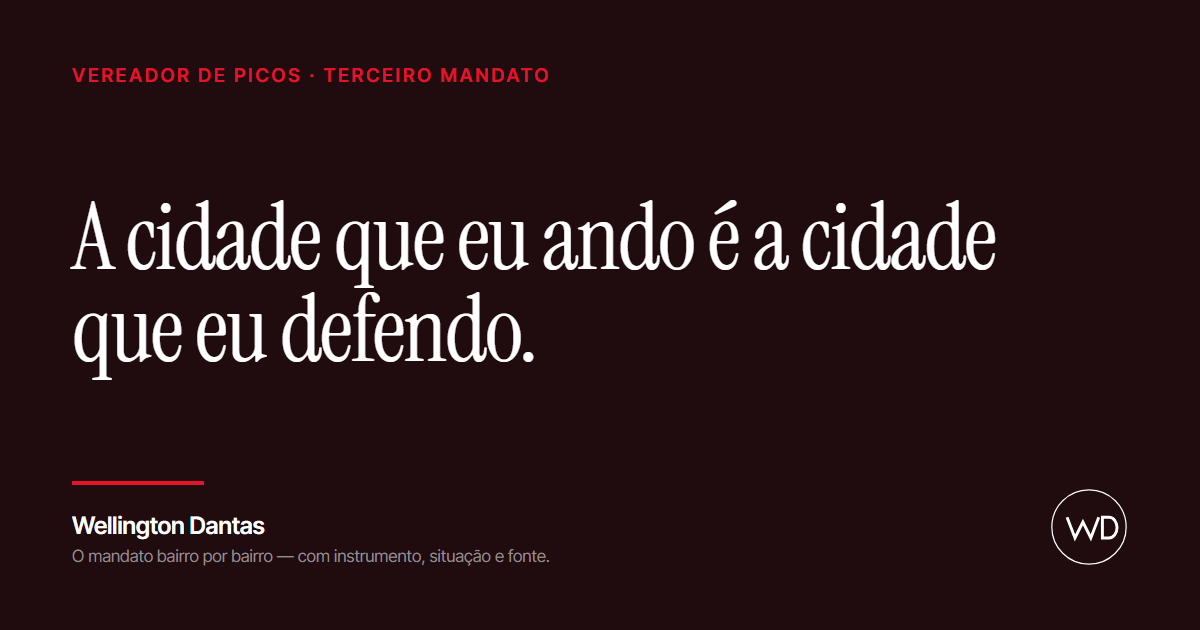
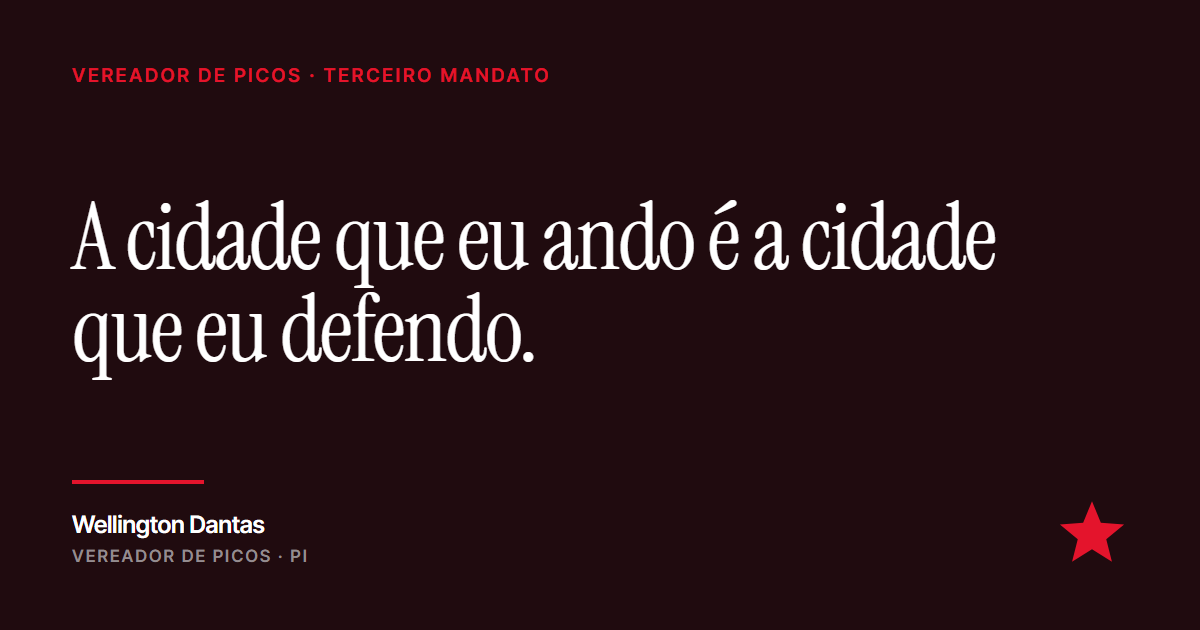
emendas por estágio de aplicação, e a assinatura nova em todo o site
EMENDAS. Saiu a lista de quem mandou; ficou o valor pelo estágio: R$ 59,5 mi já
aplicado, R$ 4,2 mi em execução, R$ 44,0 mi ainda a aplicar, com o rótulo do
portal ao lado de cada um — a classificação é da Prefeitura, a divisão em três
estágios é leitura do site. É site de mandato, não vitrine de parlamentar.

O custo dessa escolha está compensado no texto: sem os nomes dos autores, o
aviso passou a ser a única coisa que separa contexto de apropriação, então ele
ficou mais explícito — "nenhum destes recursos é do vereador, e nenhum passou
por ele... este site não atribui a ninguém". A régua exige as duas metades da
frase e passa a reprovar qualquer nome de parlamentar do CSV que apareça na
página, inclusive para dar crédito.

IDENTIDADE. Aplicada a assinatura nova:
- estrela de cinco pontas no lugar do monograma WD, no topo e no rodapé;
- duas linhas, não três: nome e cargo. Nome civil, partido e casa legislativa
  descem para a linha legal do rodapé, onde são obrigação e não identidade;
- selo quadrado de raio 2px vira favicon e avatar do assistente;
- cartão de compartilhamento regerado com a estrela e o cargo em caixa alta.

Changed region(s): [[0.0617, 0.8143, 0.4625, 0.9048], [0.8633, 0.7841, 0.9558, 0.9048], [0.0617, 0.754, 0.1542, 0.7841]]

diff --git a/index.html b/index.html
@@ -24,14 +24,14 @@
 <link rel="icon" href="img/selo.svg" type="image/svg+xml">
 <link rel="stylesheet" href="css/fontes.css?v=0481c866">
 <link rel="stylesheet" href="css/base.css?v=7b356f69">
-<link rel="stylesheet" href="css/site.css?v=a0ed0b08">
+<link rel="stylesheet" href="css/site.css?v=9b6ec860">
 </head>
 <body>
 <a class="pular" href="#entregas">Pular para as entregas</a>
 
 <header class="topo">
   <div class="wrap topo__in">
-    <a class="marca" href="#"><span class="marca__n">Wellington Dantas</span><span class="marca__t">Vereador de Picos</span></a>
+    <a class="marca" href="#"><svg class="estrela" viewBox="0 0 24 24" aria-hidden="true"><path d="M12 2.4 14.95 9.6 22.7 10.15 16.75 15.05 18.65 22.6 12 18.4 5.35 22.6 7.25 15.05 1.3 10.15 9.05 9.6Z"/></svg><span class="marca__tx"><span class="marca__n">Wellington Dantas</span><span class="marca__t">Vereador de Picos · PI</span></span></a>
     <nav class="nav">
       <a href="#origem">Trajetória</a>
       <a href="#bandeira">Causas</a>
@@ -465,37 +465,21 @@
 <section class="rec" id="recursos">
   <div class="wrap">
     <p class="olho">Recursos</p>
-    <h2>De onde vem o dinheiro que chega a Picos.</h2>
-    <p class="lide">Emendas parlamentares destinadas ao município, com autor e situação, como estão publicadas no portal da Prefeitura.</p>
+    <h2>O dinheiro público que chega a Picos.</h2>
+    <p class="lide">Emendas parlamentares destinadas ao município entre 2020 e 2026, pelo estágio de aplicação, como constam no portal da Prefeitura.</p>
 
-    <p class="rec__aviso"><strong>Nada disto é emenda do vereador.</strong> Vereador não apresenta emenda parlamentar — emenda individual, de bancada, de comissão e de relator são instrumentos de deputado e de senador. Esta seção está aqui porque é dinheiro público que chega à cidade, e mostrar de onde ele vem é diferente de dizer que alguém o trouxe.</p>
+    <p class="rec__aviso"><strong>Nenhum destes recursos é do vereador, e nenhum passou por ele.</strong> Vereador não apresenta emenda parlamentar — emenda individual, de bancada, de comissão e de relator são instrumentos de deputado e de senador. Este quadro está aqui porque é dinheiro público que chega a Picos e a cidade tem o direito de saber em que pé ele está. Não é resultado de mandato nenhum, e este site não atribui a ninguém.</p>
 
 <!--gerado:emendas-->
       <ul class="rec__n">
-        <li><b>R$&nbsp;107,7&nbsp;mi</b><span>destinados a Picos entre 2020 e 2026</span></li>
-        <li><b>60</b><span>emendas no portal da Prefeitura</span></li>
-        <li><b>R$&nbsp;59,5&nbsp;mi</b><span>com situação concluída — o resto ainda não é dinheiro na conta</span></li>
+        <li><b>R$&nbsp;59,5&nbsp;mi</b><span>Já foi aplicado<em>situação “Concluída” no portal</em></span></li>
+        <li><b>R$&nbsp;4,2&nbsp;mi</b><span>Está em execução<em>executada parcialmente ou já transferida</em></span></li>
+        <li><b>R$&nbsp;44,0&nbsp;mi</b><span>Ainda vai ser aplicado<em>empenhada — reservada, ainda não executada</em></span></li>
       </ul>
 
-      <h3 class="rec__t">Em que pé está</h3>
-      <ul class="rec__l">
-        <li><span class="rec__r">Concluida</span><span class="rec__q">23</span><span class="rec__v">R$ 59.475.977,20</span></li>
-        <li><span class="rec__r">Empenhada</span><span class="rec__q">26</span><span class="rec__v">R$ 44.008.209,46</span></li>
-        <li><span class="rec__r">Executada Parcialmente</span><span class="rec__q">8</span><span class="rec__v">R$ 2.488.603,61</span></li>
-        <li><span class="rec__r">Liberada / Transferida</span><span class="rec__q">3</span><span class="rec__v">R$ 1.701.611,28</span></li>
-      </ul>
+      <p class="rec__soma">Somados, <b>R$ 107.674.401,55</b> em 60 registros entre 2020 e 2026.</p>
 
-      <h3 class="rec__t">De quem partiu — as seis maiores origens</h3>
-      <ul class="rec__l">
-        <li><span class="rec__r">COM. DA SAUDE</span><span class="rec__q">5</span><span class="rec__v">R$ 35.007.247,00</span></li>
-        <li><span class="rec__r">BANCADA DO PIAUI</span><span class="rec__q">6</span><span class="rec__v">R$ 19.302.066,00</span></li>
-        <li><span class="rec__r">COM. ASSUNTOS SOCIAIS</span><span class="rec__q">3</span><span class="rec__v">R$ 10.521.269,00</span></li>
-        <li><span class="rec__r">FLORENTINO NETO</span><span class="rec__q">3</span><span class="rec__v">R$ 9.400.000,00</span></li>
-        <li><span class="rec__r">JADYEL ALENCAR</span><span class="rec__q">3</span><span class="rec__v">R$ 5.490.000,00</span></li>
-        <li><span class="rec__r">ELMANO FERRER</span><span class="rec__q">2</span><span class="rec__v">R$ 4.900.000,00</span></li>
-      </ul>
-
-      <p class="rec__f"><b>O que este número não é.</b> O portal não traz nenhum registro de 2022, 2 emendas aparecem com valor zero, e o beneficiário nem sempre é a Prefeitura — há associação e entidade com endereço na cidade. 60 registros para 7 anos é o que a Prefeitura publicou, não o universo do que chegou.<br><span>Fonte: Portal de Transparência da Prefeitura Municipal de Picos — Emendas Parlamentares. Coleta de 1 set 2026, conferida linha a linha.</span></p>
+      <p class="rec__f"><b>O que este número não é.</b> O portal não traz nenhum registro de 2022, 2 registros aparecem com valor zero, e o beneficiário nem sempre é a Prefeitura — há associação e entidade com endereço na cidade. 60 registros para 7 anos é o que a Prefeitura publicou, não o universo do que chegou à cidade.<br><span>Fonte: Portal de Transparência da Prefeitura Municipal de Picos — Emendas Parlamentares. Coleta de 1 set 2026, conferida linha a linha. A situação de cada recurso é a que consta no portal; a divisão em três estágios é leitura do site.</span></p>
 <!--/gerado:emendas-->
   </div>
 </section>
@@ -531,8 +515,12 @@
 <footer class="rod">
   <div class="wrap rod__in">
     <div class="rod__id">
-      <svg class="selo" viewBox="0 0 64 64" aria-hidden="true"><circle cx="32" cy="32" r="30.5" fill="none" stroke="currentColor" stroke-width="1"/><path d="M14 24 L20.5 41 L27 28 L33.5 41 L40 24" fill="none" stroke="currentColor" stroke-width="2.4" stroke-linejoin="miter"/><path d="M43 24 h5.5 c3.6 0 6.5 3.8 6.5 8.5 s-2.9 8.5 -6.5 8.5 H43 z" fill="none" stroke="currentColor" stroke-width="2.4"/></svg>
-      <div><p class="rod__n">Wellington Dantas</p><p class="rod__t">Francisco Wellington Gonçalves Dantas · Vereador de Picos (PI) · Partido dos Trabalhadores</p></div>
+      <svg class="estrela estrela--rod" viewBox="0 0 24 24" aria-hidden="true"><path d="M12 2.4 14.95 9.6 22.7 10.15 16.75 15.05 18.65 22.6 12 18.4 5.35 22.6 7.25 15.05 1.3 10.15 9.05 9.6Z"/></svg>
+      <div>
+        <p class="rod__n">Wellington Dantas</p>
+        <p class="rod__c">Vereador de Picos · PI</p>
+        <p class="rod__t">Francisco Wellington Gonçalves Dantas · Partido dos Trabalhadores · Câmara Municipal de Picos, Piauí</p>
+      </div>
     </div>
     <nav class="rod__nav"><a href="https://www.instagram.com/wellingtondantaspicos/" rel="noopener">Instagram</a></nav>
   </div>

diff --git a/css/site.css b/css/site.css
@@ -16,6 +16,46 @@
 [hidden] { display: none !important; }
 
 
+/* assinatura institucional
+ *
+ * A estrela entra no lugar do monograma "WD": monograma de iniciais não diz
+ * nada e some em tamanho pequeno; a estrela de cinco pontas é reconhecida
+ * antes de qualquer palavra ser lida. Nome e cargo em duas linhas — nome civil
+ * e partido descem para a linha legal do rodapé, onde são obrigação e não
+ * identidade.
+ *
+ * O alinhamento da estrela é óptico: ela acompanha a altura das duas linhas de
+ * texto, não a caixa do desenho. Estrela alinhada pela caixa parece sempre
+ * alta demais.
+ */
+.marca {
+  flex-direction: row;
+  align-items: center;
+  gap: 11px;
+  border-left: 0;
+  padding-left: 0;
+}
+.marca__tx { display: flex; flex-direction: column; line-height: 1.15; }
+.marca__t { letter-spacing: .1em; text-transform: uppercase; font-weight: 600; font-size: 10.5px; }
+
+.estrela { width: 26px; height: 26px; flex: 0 0 auto; fill: var(--pt-vermelho); display: block; }
+.estrela--rod { width: 46px; height: 46px; }
+
+.rod__c {
+  font-size: 11.5px;
+  letter-spacing: .1em;
+  text-transform: uppercase;
+  font-weight: 600;
+  color: var(--aco-claro);
+  margin-top: 3px;
+}
+.rod__t { margin-top: 14px; }
+
+@media (max-width: 560px) {
+  .estrela { width: 22px; height: 22px; }
+  .estrela--rod { width: 34px; height: 34px; }
+}
+
 /* pular para o conteúdo — teclado */
 .pular {
   position: absolute;
@@ -371,7 +411,17 @@
  * cor com que o site marca o que é dele. Nesta seção o vermelho aparece só no
  * filete do aviso. Cor também atribui. */
 .rec__n b { color: var(--tinta); }
-.rec__n span { display: block; font-size: 13.5px; color: var(--aco); margin-top: 9px; max-width: 30ch; }
+.rec__n span { display: block; font-size: 15px; color: var(--tinta); margin-top: 10px; max-width: 26ch; font-weight: 600; letter-spacing: -.01em; }
+/* o rótulo do portal fica embaixo do rótulo em português: a tradução é do
+   site, a classificação é da Prefeitura, e as duas aparecem */
+.rec__n em { display: block; font-style: normal; font-size: 13px; font-weight: 400; color: var(--aco); margin-top: 4px; }
+
+.rec__soma {
+  font-size: 15px; color: var(--aco);
+  border-top: 1px solid var(--linha);
+  padding-top: 18px; margin-bottom: 30px;
+}
+.rec__soma b { color: var(--tinta); font-weight: 600; font-variant-numeric: tabular-nums; }
 
 .rec__t {
   font-size: 13px; letter-spacing: .06em; text-transform: uppercase;

diff --git a/scripts/og.html b/scripts/og.html
@@ -28,9 +28,9 @@
   }
   .pe { display: flex; align-items: end; justify-content: space-between; gap: 40px; }
   .pe p { font-size: 24px; font-weight: 600; letter-spacing: -.01em; }
-  .pe span { display: block; font-size: 17px; font-weight: 400; color: #948C8F; margin-top: 6px; letter-spacing: 0; }
+  .pe span { display: block; font-size: 17px; font-weight: 600; color: #948C8F; margin-top: 7px; letter-spacing: .12em; text-transform: uppercase; }
   .risco { width: 132px; height: 4px; background: #E4142C; margin-bottom: 26px; }
-  svg { width: 78px; height: 78px; flex: 0 0 auto; }
+  svg { width: 72px; height: 72px; flex: 0 0 auto; }
 </style>
 </head>
 <body>
@@ -39,13 +39,9 @@
   <div class="pe">
     <div>
       <div class="risco"></div>
-      <p>Wellington Dantas<span>O mandato bairro por bairro — com instrumento, situação e fonte.</span></p>
+      <p>Wellington Dantas<span>Vereador de Picos · PI</span></p>
     </div>
-    <svg viewBox="0 0 64 64" aria-hidden="true" fill="none" stroke="#fff" stroke-width="2.4">
-      <circle cx="32" cy="32" r="30.5" stroke-width="1"/>
-      <path d="M14 24 L20.5 41 L27 28 L33.5 41 L40 24" stroke-linejoin="miter"/>
-      <path d="M43 24 h5.5 c3.6 0 6.5 3.8 6.5 8.5 s-2.9 8.5 -6.5 8.5 H43 z"/>
-    </svg>
+    <svg viewBox="0 0 24 24" aria-hidden="true"><path fill="#E4142C" d="M12 2.4 14.95 9.6 22.7 10.15 16.75 15.05 18.65 22.6 12 18.4 5.35 22.6 7.25 15.05 1.3 10.15 9.05 9.6Z"/></svg>
   </div>
 </body>
 </html>

diff --git a/css/assistente.css b/css/assistente.css
@@ -54,12 +54,13 @@ body { display: flex; flex-direction: column; }
   background: var(--tinta); color: var(--branco);
 }
 .cab__id { display: flex; align-items: center; gap: 10px; }
+/* o mesmo selo do site: quadrado, raio 2px, estrela branca sobre vermelho */
 .cab__selo {
-  width: 36px; height: 36px; flex: 0 0 auto;
-  border: 1px solid rgba(255,255,255,.5); border-radius: 50%;
+  width: 34px; height: 34px; flex: 0 0 auto;
+  background: var(--vermelho); border-radius: 2px;
   display: grid; place-items: center;
-  font-size: 12px; font-weight: 600; letter-spacing: .02em;
 }
+.cab__selo svg { width: 22px; height: 22px; fill: #fff; display: block; }
 .cab__nome { font-size: 15px; font-weight: 600; letter-spacing: -.01em; }
 .cab__sub { font-size: 11.5px; color: #C9C9C9; }
 .cab__x {

diff --git a/assistente.html b/assistente.html
@@ -12,7 +12,7 @@
 
 <header class="cab">
   <div class="cab__id">
-    <span class="cab__selo" aria-hidden="true">WD</span>
+    <span class="cab__selo" aria-hidden="true"><svg viewBox="0 0 24 24"><path d="M12 2.4 14.95 9.6 22.7 10.15 16.75 15.05 18.65 22.6 12 18.4 5.35 22.6 7.25 15.05 1.3 10.15 9.05 9.6Z"/></svg></span>
     <div>
       <p class="cab__nome" id="bot-nome">Dantas.IA</p>
       <p class="cab__sub" id="bot-sub">Assistente automatizado · não é o vereador</p>
